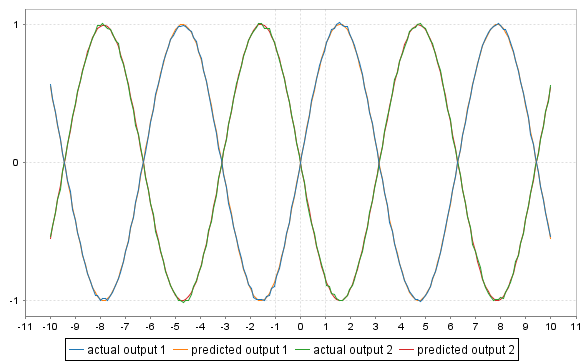
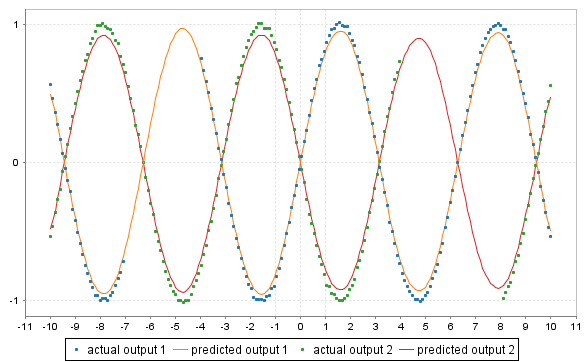
#1 Support missing observations.

diff --git a/doc/cogp/cogp.md b/doc/cogp/cogp.md
@@ -16,7 +16,7 @@ Based on Nguyen et al. Collaborative Multi-output Gaussian Processes, 2014
 [source code](https://github.com/danielkorzekwa/bayes-scala-gp/blob/master/src/test/scala/dk/gp/cogp/cogpPredictToyProblemDemo.scala):
 
 ```scala
-  val data = csvread(new File("src/test/resources/cogp/cogp_no_missing_points.csv"))
+  val data: DenseMatrix[Double] = loadToyModelDataIncomplete()
   
   val x = data(::, 0).toDenseMatrix.t
   val y = data(::, 1 to 2)
